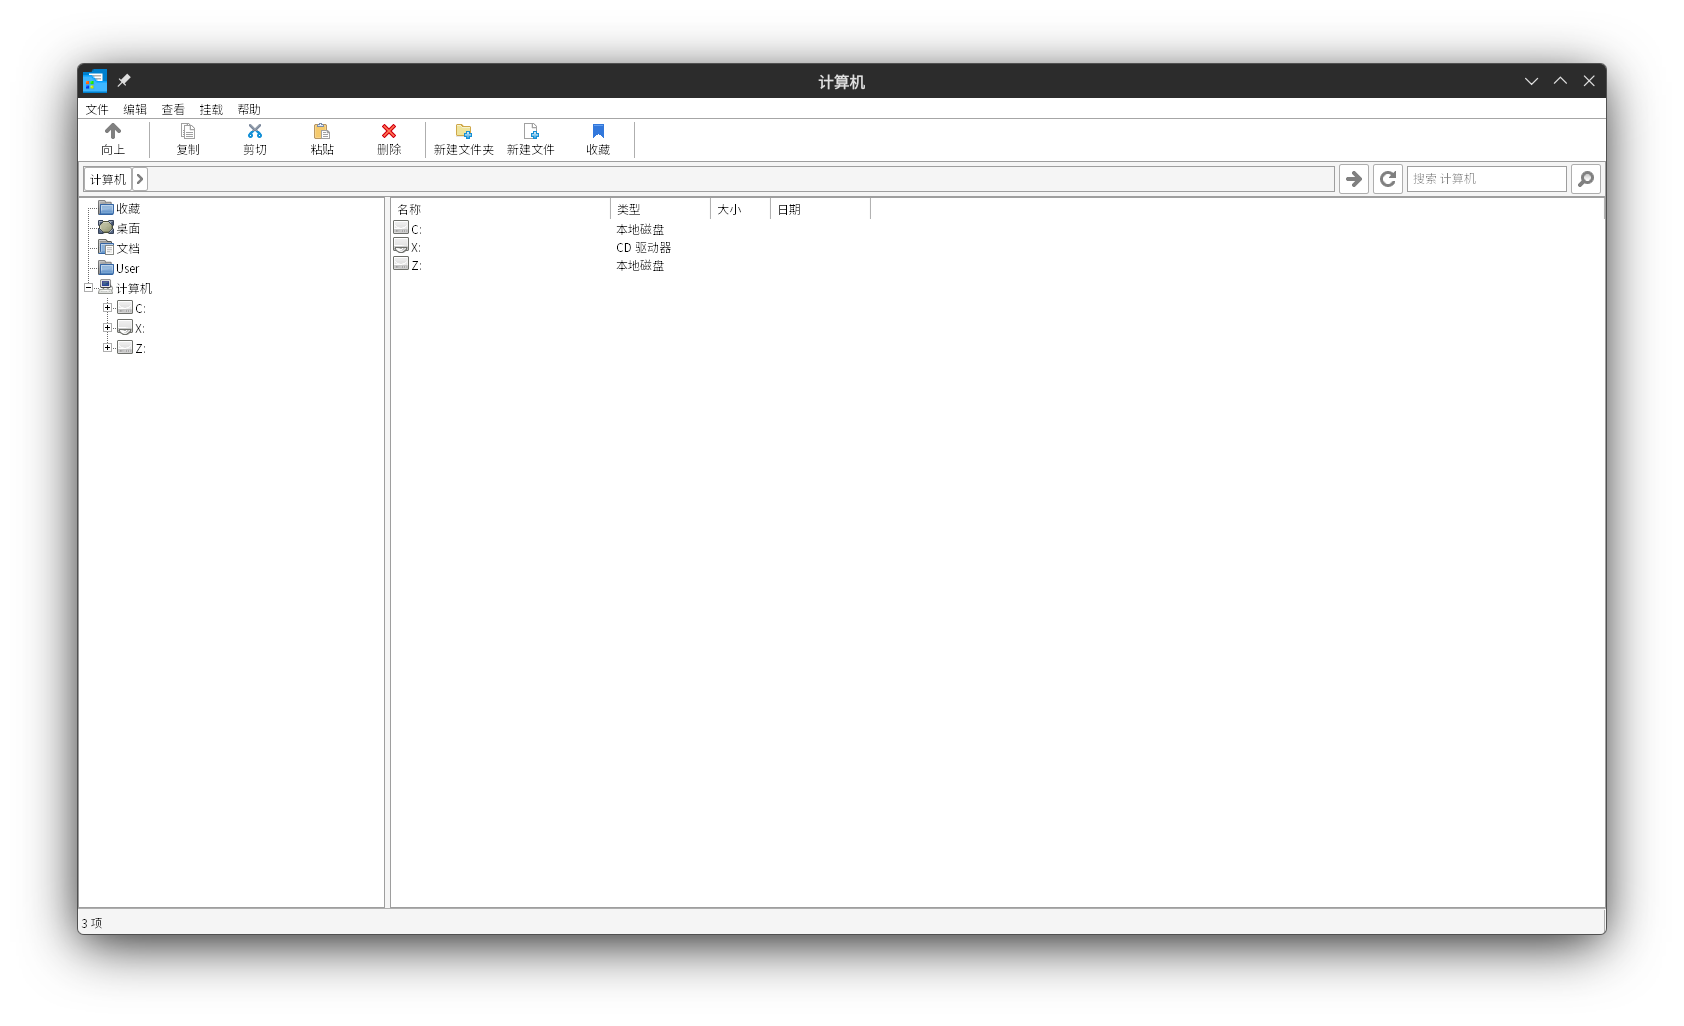
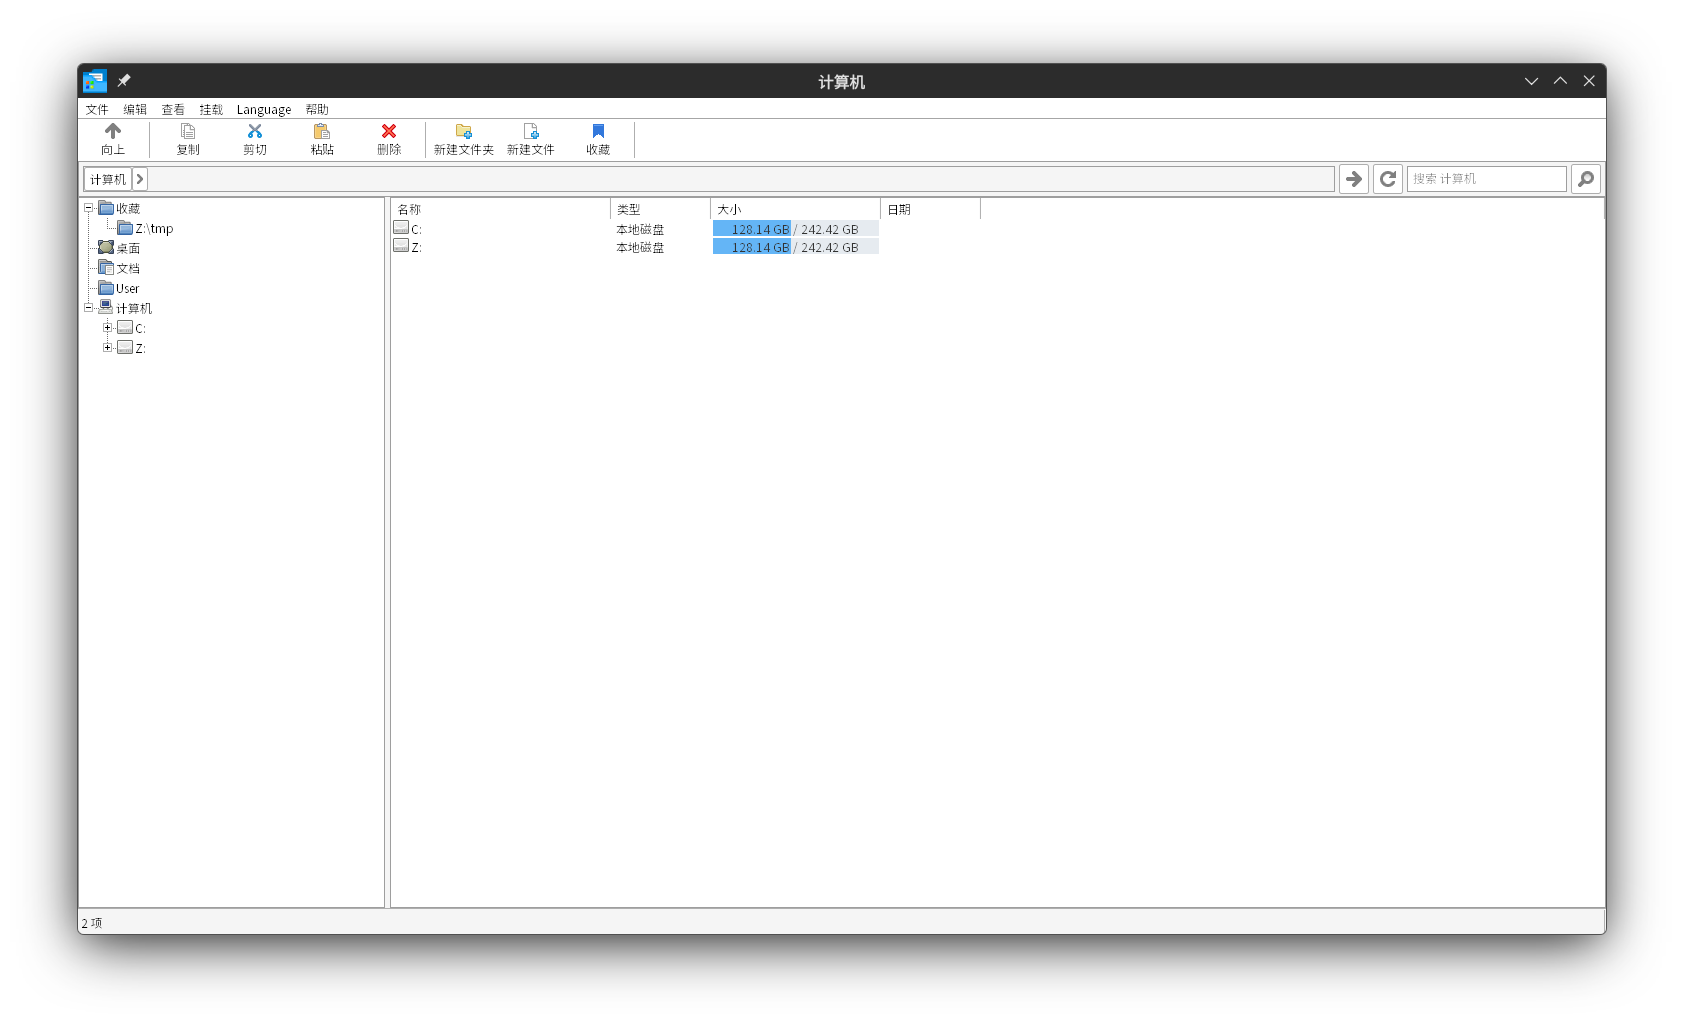
1.5-mod.2.1: Update Readme & bat.

Changed region(s): [[0.3705, 0.1871, 0.5249, 0.2807], [0.0309, 0.2183, 0.0926, 0.3119], [0.1235, 0.0936, 0.1544, 0.1248]]

diff --git a/README.md b/README.md
@@ -22,6 +22,7 @@
 7. 高DPI适配，且字体在wine下运行也不会模糊
 8. exe图标可以直接保存为256x256的ico文件
 9. 加入了语言切换功能，设置后不受locale影响
+10. 可以查看盘符剩余空间大小
 
 相较于原版wfm
 
